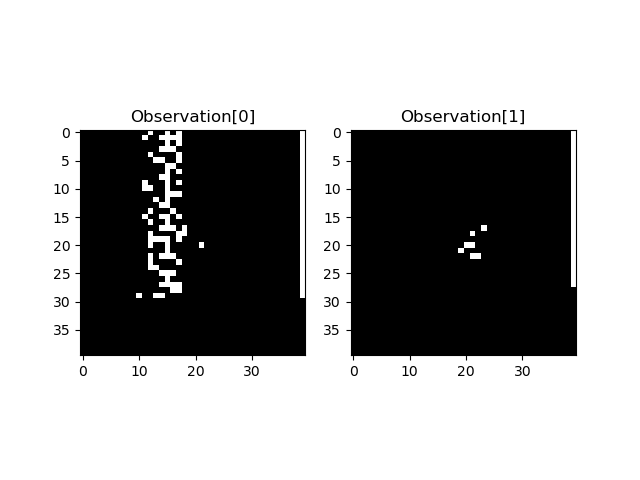
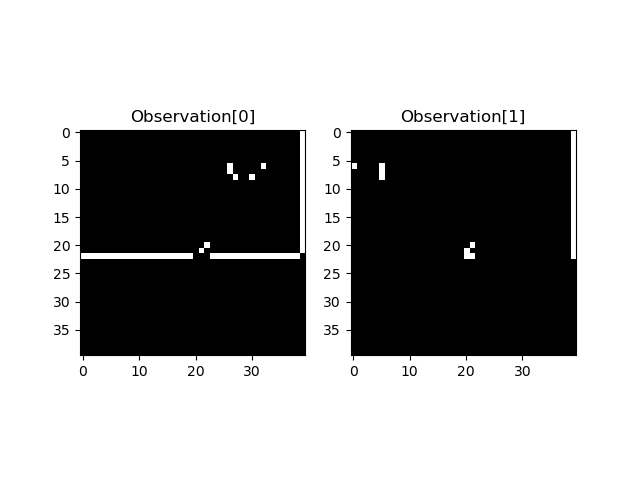
pebbles?

diff --git a/gamma_games/knights_archers_zombies/game.py b/gamma_games/knights_archers_zombies/game.py
@@ -62,6 +62,10 @@ class Game():
         self.right_wall = pygame.image.load(os.path.join('img', 'right_wall.png'))
         self.right_wall_rect = self.right_wall.get_rect()
         self.right_wall_rect.left = self.WIDTH - self.right_wall_rect.width
+        self.floor_patch1 = pygame.image.load(os.path.join('img', 'patch1.png'))
+        self.floor_patch2 = pygame.image.load(os.path.join('img', 'patch2.png'))
+        self.floor_patch3 = pygame.image.load(os.path.join('img', 'patch3.png'))
+        self.floor_patch4 = pygame.image.load(os.path.join('img', 'patch4.png'))
 
         self.agent_list = []
         self.agent_ids = []
@@ -420,6 +424,11 @@ class Game():
         self.WINDOW.fill((66, 40, 53))
         self.WINDOW.blit(self.left_wall, self.left_wall.get_rect())
         self.WINDOW.blit(self.right_wall, self.right_wall_rect)
+        self.WINDOW.blit(self.floor_patch1, (500, 500))
+        self.WINDOW.blit(self.floor_patch2, (900, 30))
+        self.WINDOW.blit(self.floor_patch3, (150, 430))
+        self.WINDOW.blit(self.floor_patch4, (300, 50))
+        self.WINDOW.blit(self.floor_patch1, (1000, 250))
         self.all_sprites.draw(self.WINDOW)       # Draw all the sprites
         pygame.display.update()
         pygame.display.flip()                    # update screen
@@ -442,8 +451,6 @@ class Game():
         # shape = original_obs_shape(self.s_width, self.s_height)
         shape = (40, 40)
         for i in range(len(observation)):
-            print(observation[i])
-            print(observation[i].shape)
             observation[i] = np.squeeze(observation[i])
             observation[i] = observation[i].reshape(shape)
 
@@ -531,7 +538,6 @@ if __name__ == "__main__":
         # actions = [random.randint(1, 5), random.randint(1, 5), random.randint(1, 5), random.randint(1, 5)]
         actions = [random.randint(1, 5) for x in range(g.num_agents)]
         observations, reward_dict, done_dict, info = g.step(actions)
-        print(observations)
-        g.plot_obs(observations, "obs")
+        # g.plot_obs(observations, "obs")
         done = done_dict['__all__']
         # quit()